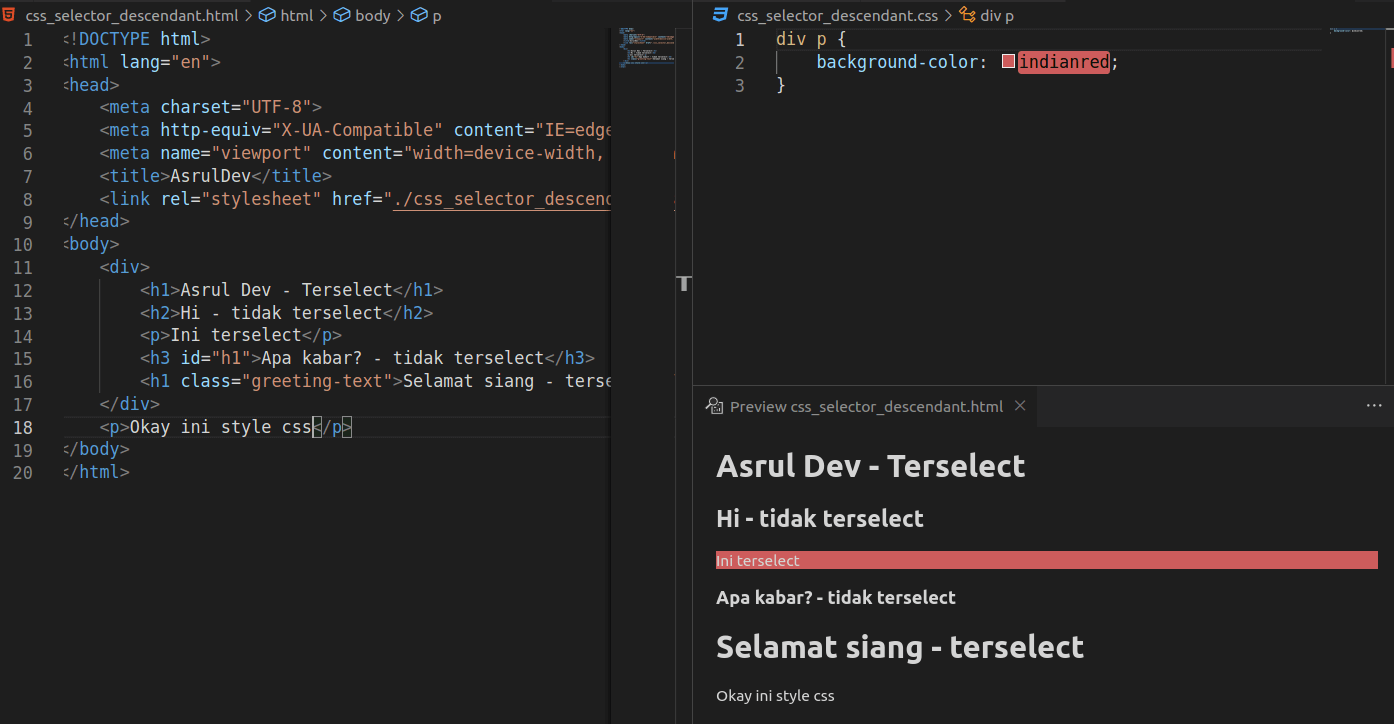
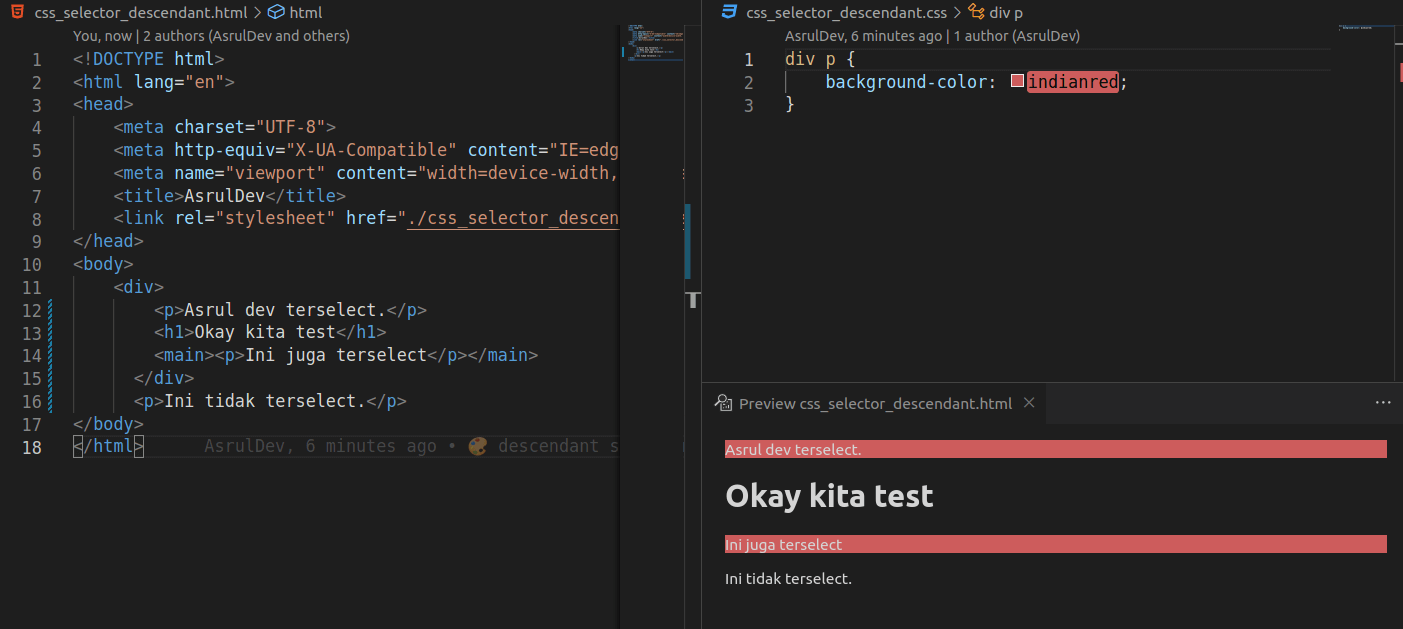
:arts: siblings

diff --git a/css_selector_general_sibling.html b/css_selector_general_sibling.html
@@ -1,0 +1,20 @@
+<!DOCTYPE html>
+<html lang="en">
+  <head>
+    <meta charset="UTF-8" />
+    <meta http-equiv="X-UA-Compatible" content="IE=edge" />
+    <meta name="viewport" content="width=device-width, initial-scale=1.0" />
+    <title>AsrulDev</title>
+    <link rel="stylesheet" href="./css_selector_general_sibling.css" />
+  </head>
+  <body>
+    <p>Ini tidak terselect.</p>
+    <div>
+      <p>Asrul dev terselect.</p>
+      <h1>Okay kita test</h1>
+      <main><p>Ini tidak terselect</p></main>
+    </div>
+    <p>Ini terselect.</p>
+    <p>Ini terselect.</p>
+  </body>
+</html>

diff --git a/css_selector_sibling.html b/css_selector_sibling.html
@@ -1,0 +1,19 @@
+<!DOCTYPE html>
+<html lang="en">
+  <head>
+    <meta charset="UTF-8" />
+    <meta http-equiv="X-UA-Compatible" content="IE=edge" />
+    <meta name="viewport" content="width=device-width, initial-scale=1.0" />
+    <title>AsrulDev</title>
+    <link rel="stylesheet" href="./css_selector_sibling.css" />
+  </head>
+  <body>
+    <div>
+      <p>Asrul dev terselect.</p>
+      <h1>Okay kita test</h1>
+      <main><p>Ini tidak terselect</p></main>
+    </div>
+    <p>Ini terselect.</p>
+    <p>Ini tidak terselect.</p>
+  </body>
+</html>

diff --git a/css_selector_child.html b/css_selector_child.html
@@ -1,0 +1,18 @@
+<!DOCTYPE html>
+<html lang="en">
+  <head>
+    <meta charset="UTF-8" />
+    <meta http-equiv="X-UA-Compatible" content="IE=edge" />
+    <meta name="viewport" content="width=device-width, initial-scale=1.0" />
+    <title>AsrulDev</title>
+    <link rel="stylesheet" href="./css_selector_child.css" />
+  </head>
+  <body>
+    <div>
+      <p>Asrul dev terselect.</p>
+      <h1>Okay kita test</h1>
+      <main><p>Ini tidak terselect</p></main>
+    </div>
+    <p>Ini tidak terselect.</p>
+  </body>
+</html>

diff --git a/css_selector_descendant.html b/css_selector_descendant.html
@@ -9,12 +9,10 @@
 </head>
 <body>
     <div>
-        <h1>Asrul Dev - Terselect</h1>
-        <h2>Hi - tidak terselect</h2>
-        <p>Ini terselect</p>
-        <h3 id="h1">Apa kabar? - tidak terselect</h3>
-        <h1 class="greeting-text">Selamat siang - terselect</h1>
-    </div>
-    <p>Okay ini style css</p>
+        <p>Asrul dev terselect.</p>
+        <h1>Okay kita test</h1>
+        <main><p>Ini juga terselect</p></main>
+      </div>
+      <p>Ini tidak terselect.</p>
 </body>
 </html>

diff --git a/css_selector_general_sibling.css b/css_selector_general_sibling.css
@@ -1,0 +1,3 @@
+div ~ p {
+    background-color: indianred;
+}

diff --git a/css_selector_sibling.css b/css_selector_sibling.css
@@ -1,0 +1,3 @@
+div + p {
+    background-color: indianred;
+}

diff --git a/css_selector_child.css b/css_selector_child.css
@@ -1,0 +1,3 @@
+div>p {
+    background-color: indianred;
+}
